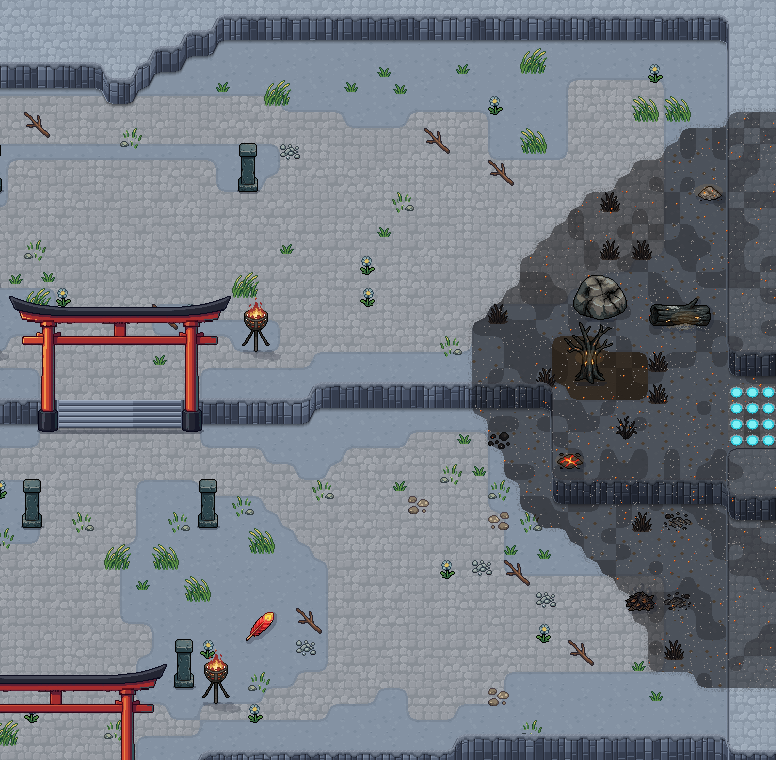
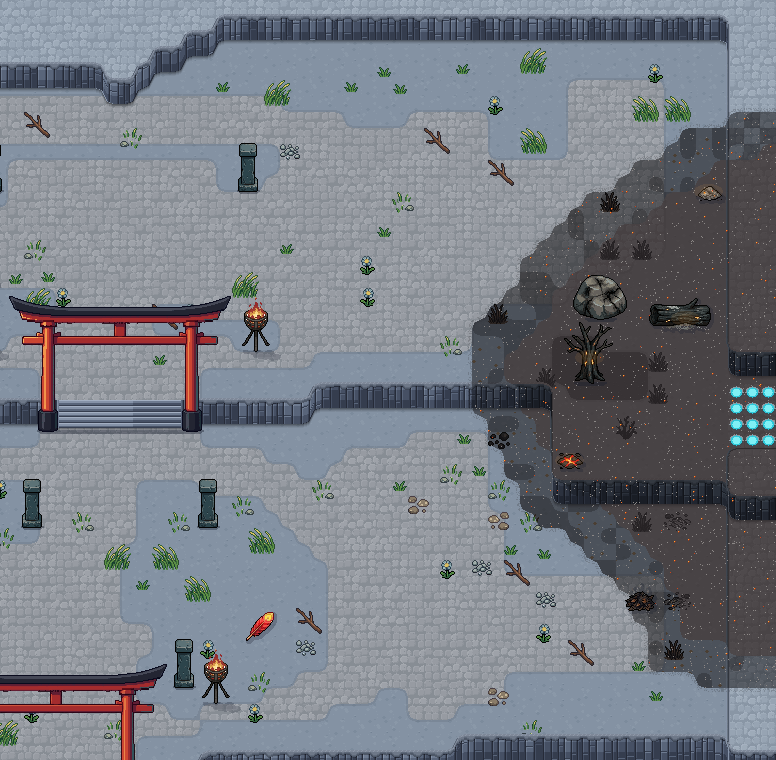
Karte 50: Brandbereich - Kern ganz verkohlt, verrusstes Band als Übergang zum Gebirge (Nutzer)
Claude-Session: https://claude.ai/code/session_01SaoYHKhnro4LFcPJqjaPsq

diff --git a/tools/karte50_bauen.py b/tools/karte50_bauen.py
@@ -70,12 +70,18 @@ def verkohlen(a, lay, cols, rows, frame, wand=None):
     boden = m & ~(wand if wand is not None else np.zeros_like(m))
     tief = np.where(flecken, 0.36, 0.5)[..., None]                    # Russflecken: Textur bleibt sichtbar
     af[boden] = (af * tief + kohle * (1 - tief) * 0.55)[boden]
-    gras_ = boden & (af[..., 1] > af[..., 0] + 6)                     # verbrannte Wiese: braun-schwarz statt gruen
+    # Kern (Nutzer: erste Version) - ganz verkohlt; das verrusste Band (zweite Version) bleibt als Uebergang ringsum
+    from PIL import ImageFilter as _IF
+    kern_k = np.array(Image.fromarray((km[::T, ::T] * 255).astype(np.uint8)).filter(_IF.MinFilter(5))) > 0   # 2 Kacheln
+    kern = weich(np.kron(kern_k, np.ones((T, T))).astype(np.float32), 6.0, 0.0, 80, 0.5) & m
+    kb_ = kern & boden
+    af[kb_] = neu[kb_]
+    gras_ = boden & ~kern & (af[..., 1] > af[..., 0] + 6)             # verbrannte Wiese: braun-schwarz statt gruen
     lg_ = af[gras_].mean(axis=1, keepdims=True)
     af[gras_] = lg_ * np.array([1.05, 0.88, 0.72]) * 0.9
     if wand is not None:                                             # Felsfronten nur verrusst (Relief bleibt)
         wm_ = m & wand
-        af[wm_] = af[wm_] * 0.62
+        af[wm_] = af[wm_] * np.where(kern[wm_], 0.48, 0.62)[:, None]
     af[rand_] = af[rand_] * 0.7 + (af[rand_] * 0.45 + kohle * 0.25) * 0.3
     asche = m & (rausch > 0.985)                                     # Ascheflocken
     af[asche] = np.array([140, 136, 134])
